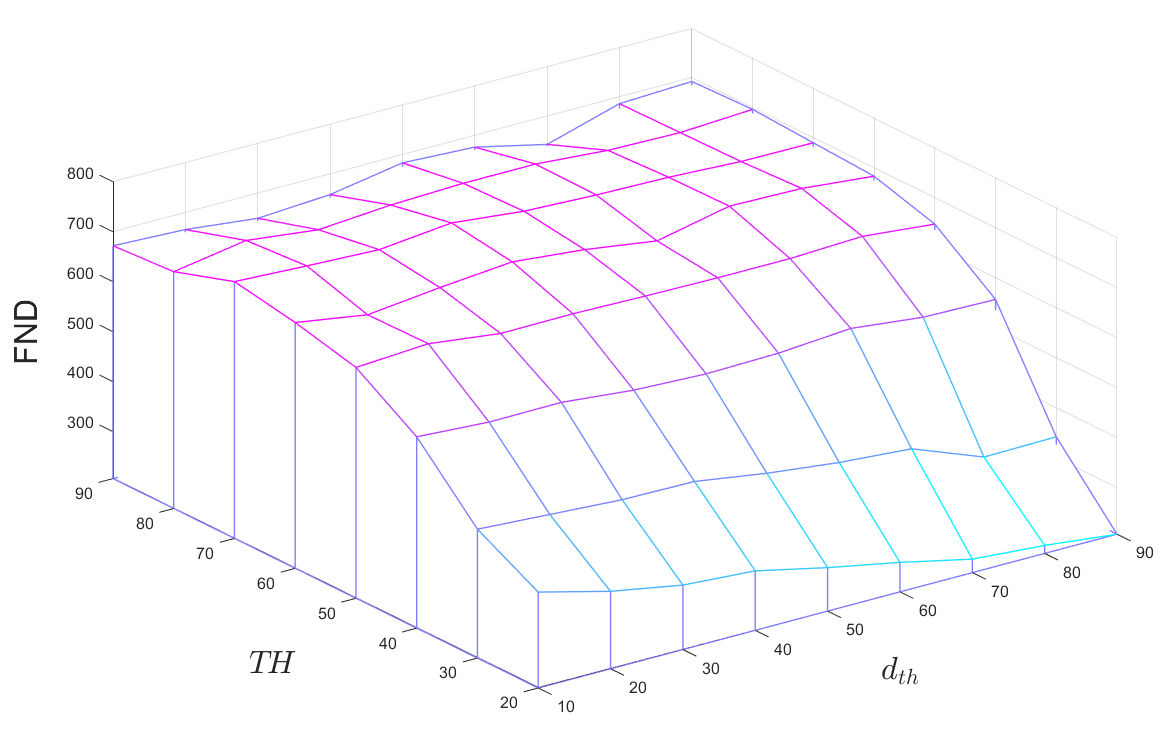
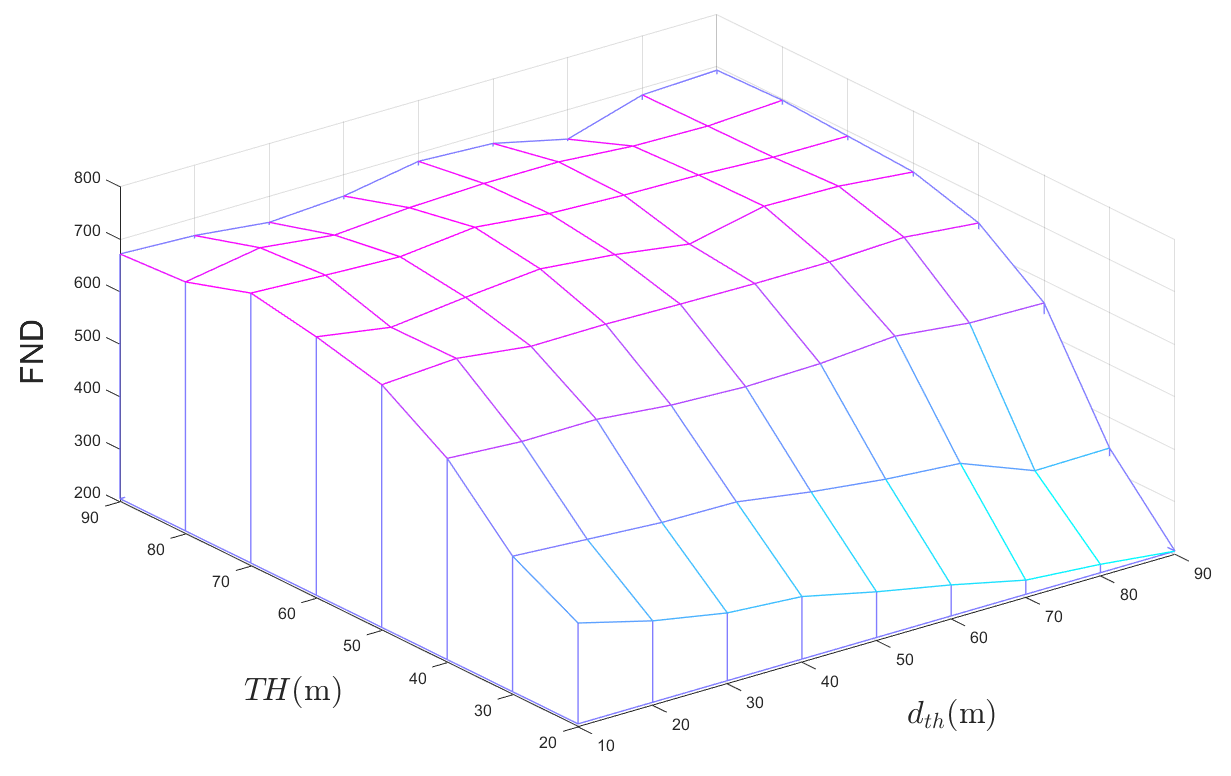
0828

diff --git a/plot_TH_dth.m b/plot_TH_dth.m
@@ -39,8 +39,8 @@ for k =1:1
     set(gca,'fontsize',12,'FontName','Arial');
     set( h1 , 'linewidth' , 1 );   
     zlabel('FND','FontSize', 24);
-    xlabel('$d_{th}$','Interpreter','latex','FontSize', 24);	
-    ylabel('$T\!H$','Interpreter','latex','FontSize', 24);	
+    xlabel('$d_{th}$(m)','Interpreter','latex','FontSize', 24);	
+    ylabel('$T\!H$(m)','Interpreter','latex','FontSize', 24);	
     
     % title({'Max-RSRP','Satisfaction ratio of overload BSs(512kbps)'},'FontWeight','bold','FontSize',20);
     rotate3d on
